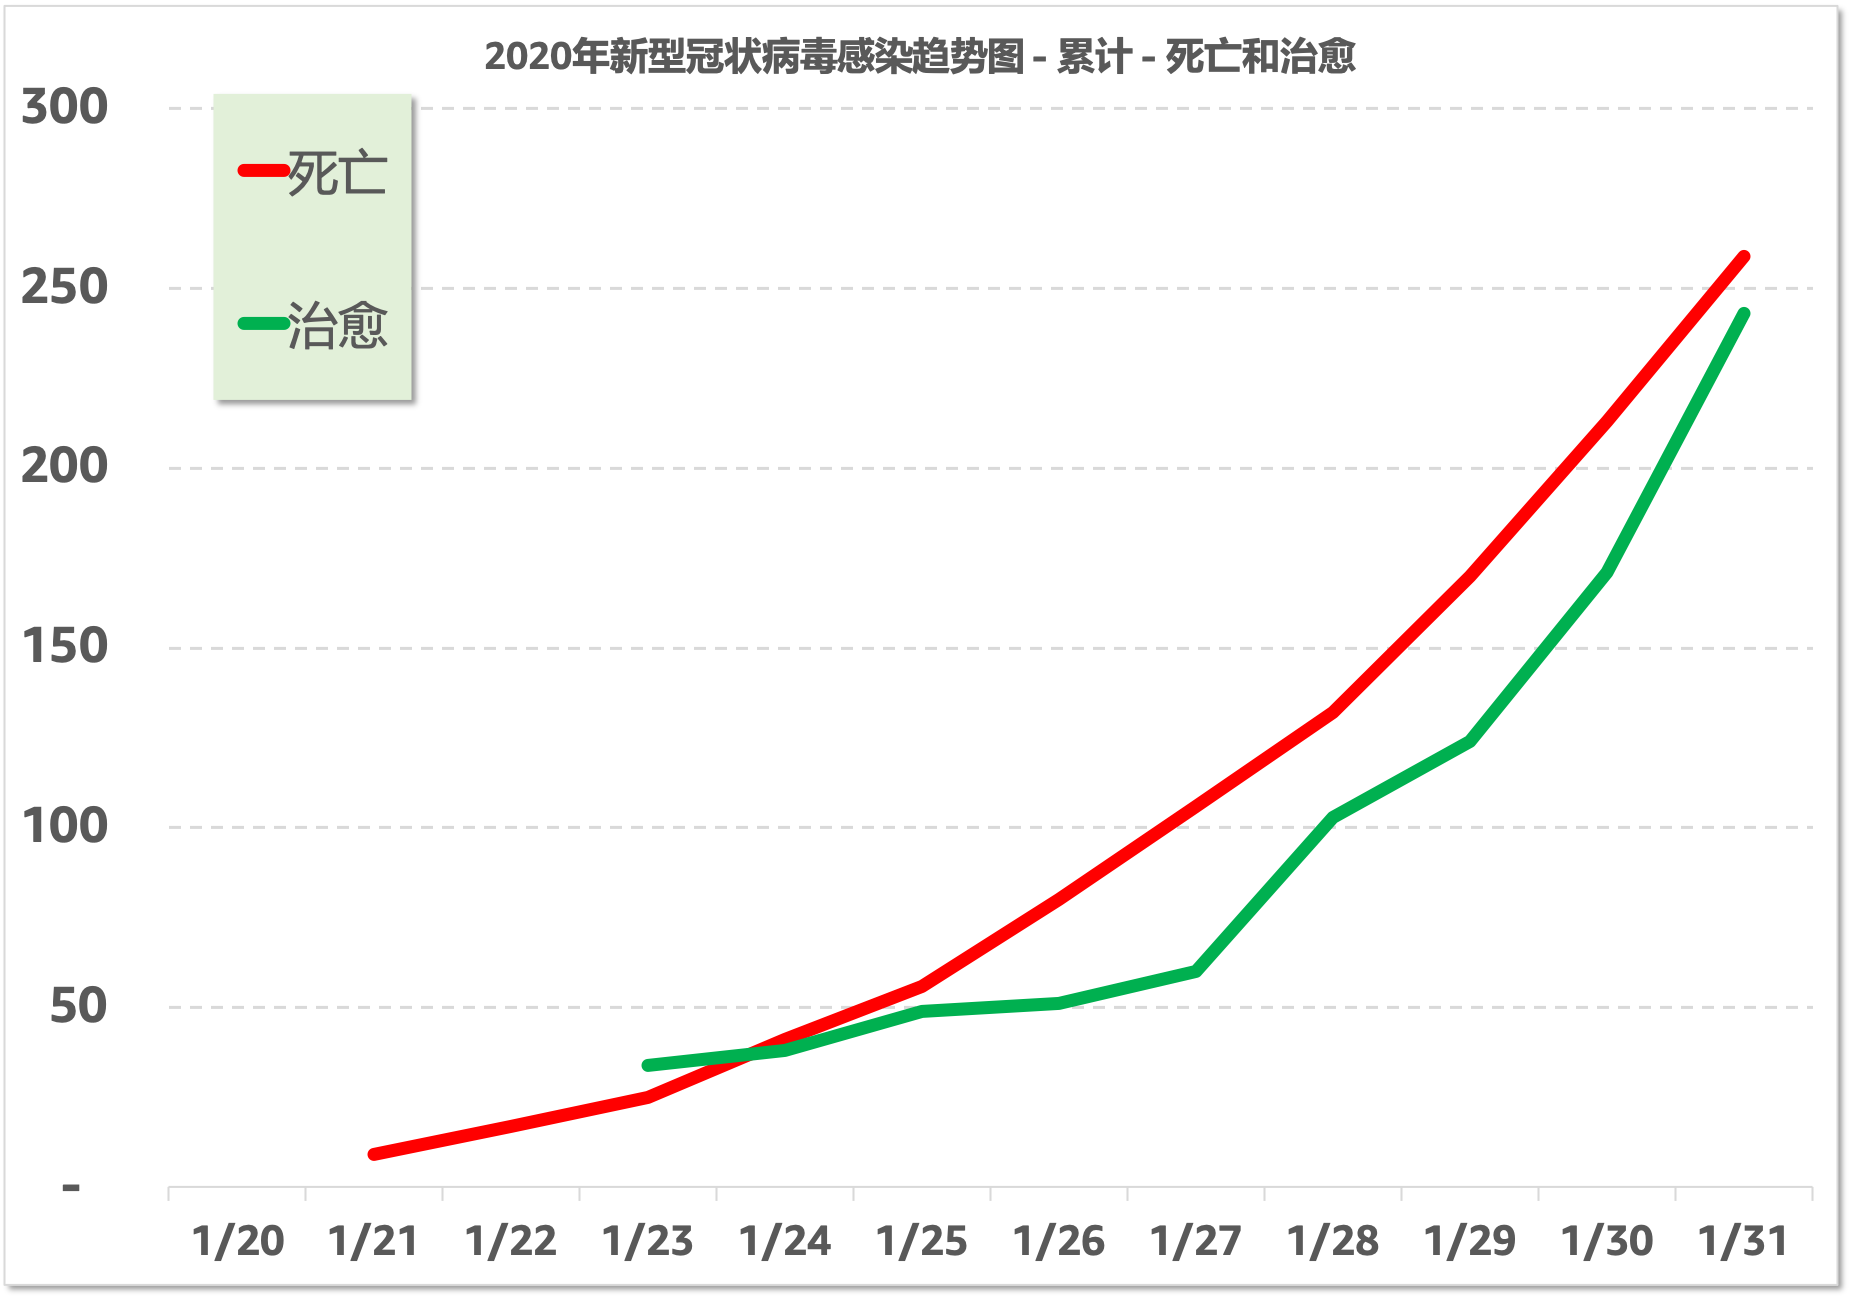
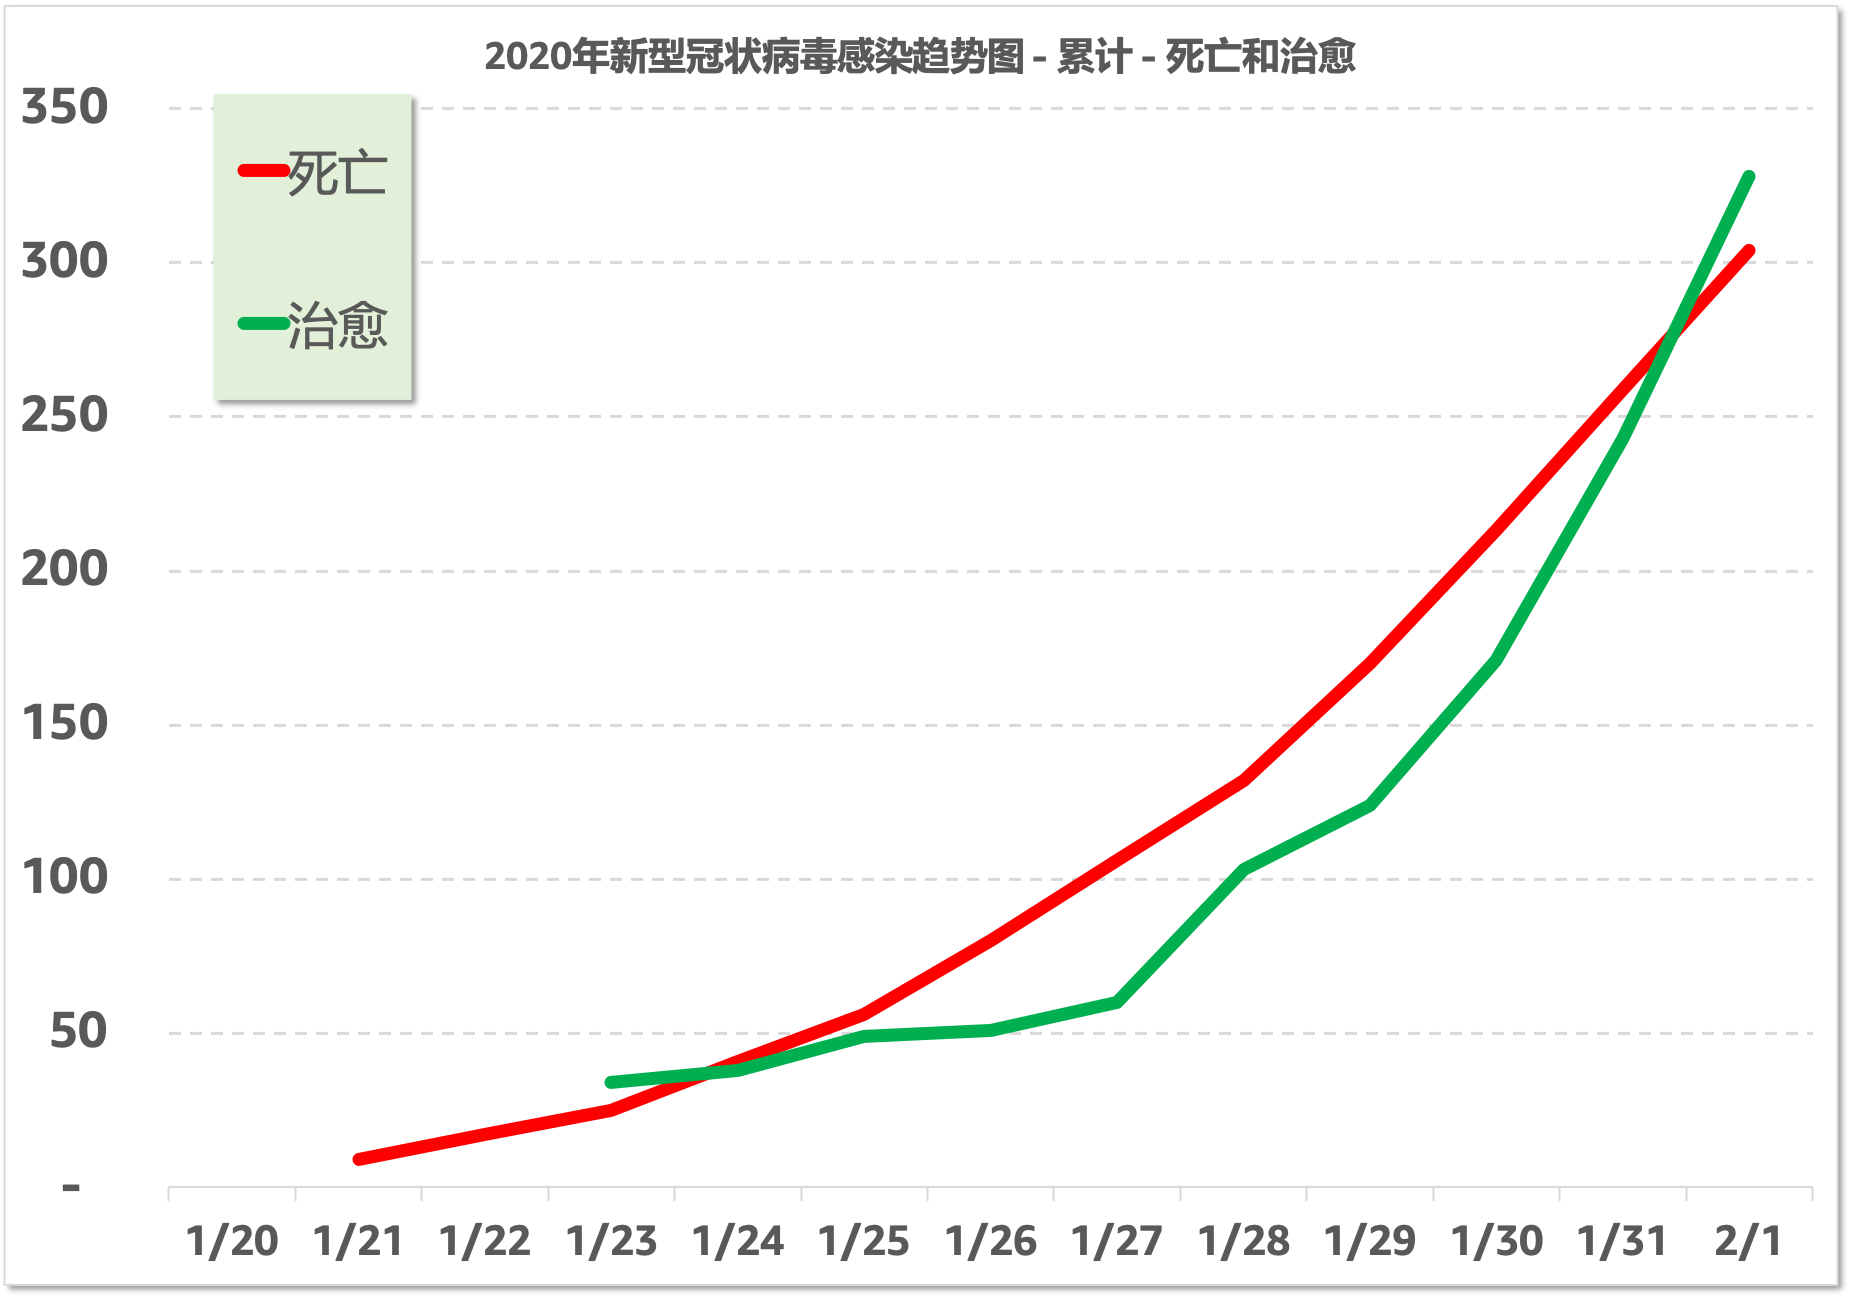
Update for Feb 1 data

diff --git a/README.md b/README.md
@@ -4,7 +4,7 @@
 
 这是根据卫建委发布的官方数据制作的每日疫情发展趋势图。每日830~930之间根据卫建委发布的最新疫情通报更新。
 
-- 更新时间: **`10:00, 2/1/2020`**
+- 更新时间: **`08:53, 2/2/2020`**
 - [网页地址](https://zire.github.io/pandemic2020/)
 - [Github Repo地址](https://github.com/zire/pandemic2020)
 - 数据来源：[中华人民共和国国家卫生健康委员会卫生应急办公室](http://www.nhc.gov.cn/)
@@ -32,6 +32,7 @@
 
 | 日期 | 密切接触 | 接受医学观察 | 疑似病例 | 确诊 | 重症病例 | 死亡 | 治愈|
 | --- | ---: | ---: | ---: | ---: | ---: | ---: | ---: |
+|2/1/2020|163,844|137,594|19,544|14,380|2,110|304|328|
 |1/31/2020|136,987|118,478|17,988|11,791|1,795|259|243|
 |1/30/2020|113,579|102,427|15,238|9,692|1,527|213|171|
 |1/29/2020|88,693|81,947|12,167|7,711|1,370|170|124|
@@ -49,6 +50,7 @@
 
 | 日期 | 密切接触 | 接受医学观察 | 疑似病例 | 确诊 | 重症病例 | 死亡 | 治愈 |死亡率|
 | --- | ---: | ---: | ---: | ---: | ---: | ---: | ---:| ---: |
+|1/2/2020|20%|16%|9%|22%|18%|17%|35%|2.11%|
 |1/31/2020|21%|16%|18%|22%|18%|22%|42%|2.20%|
 |1/30/2020|28%|25%|25%|26%|11%|25%|38%|2.20%|
 |1/29/2020|35%|37%|32%|29%|11%|29%|20%|2.20%|
@@ -67,30 +69,31 @@
 
 ###  确诊数量
 
-- Latest date as BOP (Beginning of Period): *`1/31/2020`*
-- Latest average day-over-day % of the last 3 trailing days: *`25.5%`*
-- Current life-to-date confirmed infected: *`11,791`*
+- Latest date as BOP (Beginning of Period): *`1/2/2020`*
+- Latest average day-over-day % of the last 3 trailing days: *`23.1%`*
+- Current life-to-date confirmed infected: *`14,380`*
 
 | # of Days from 1/31 | -20% Adj | -10% Adj | 0% Adj | 10% Adj | 20% Adj |
 | ---: |---: |---: |---: |---: |---:|
 | | 20.4% |22.9%| 25.5%| 28.0%| 30.6%|
-|7 | 43,194| 50,013|57,735|66,457|76,285|
-|14|158,231|212,137|282,702|374,571|493,551| 
-|21|579,647|899,808|1,384,261|2,111,186|3,193,178| 
-|28|2,123,413|3,816,652|6,778,089|11,899,221|20,659,222|
+|7 |47,131 	 |53,953 	 |61,604 	 |70,166 |79,730| 
+|14|	 154,475| 	 202,427| 	 263,909| 	 342,372| 	 442,058| 
+|21|	 506,300| 	 759,493| 	 1,130,583 	 |1,670,585| 	 2,450,980| 
+|28|	 1,659,426| 	 2,849,564| 	 4,843,398| 	 8,151,519| 	 13,589,393| 
 
 ### 死亡数量
 
-- Latest date as BOP (Beginning of Period): *`1/31/2020`*
-- Latest average day-over-day % of the last 3 trailing days: *`25.2%`*
-- Current life-to-date deaths: *`259`*
+- Latest date as BOP (Beginning of Period): *`1/2/2020`*
+- Latest average day-over-day % of the last 3 trailing days: *`21.4%`*
+- Current life-to-date deaths: *`304`*
 
 | # of Days from 1/31 | -20% Adj | -10% Adj | 0% Adj | 10% Adj | 20% Adj |
 | ---: |---: |---: |---: |---: |---:|
-|7|	 938| 	 1,085| 	 1,251| 	 1,438| 	 1,649| 
-|14|	 3,396|4,543 	 |6,040 	 |7,985| 	 10,500 
-|21|	 12,298| 	 19,024| 	 29,167| 	 44,339| 66,853| 
-|28|	 44,534| 	 79,669| 	 140,849| 	 246,196| 425,661| 
+||17.1%|19.3%|21.4%|23.6%|25.7%|
+|7|	 920| 	 1,044| 	 1,183| 	 1,337| 	 1,508| 
+|14|	 2,784| 	 3,588| 	 4,603| 	 5,880| 	 7,479| 
+|21	| 8,423| 	 12,324| 	 17,910| 	 25,858| 	 37,098| 
+|28	| 25,488| 	 42,336| 	 69,689| 	 113,718| 	 184,008| 
 
 ### 历史对比
 
